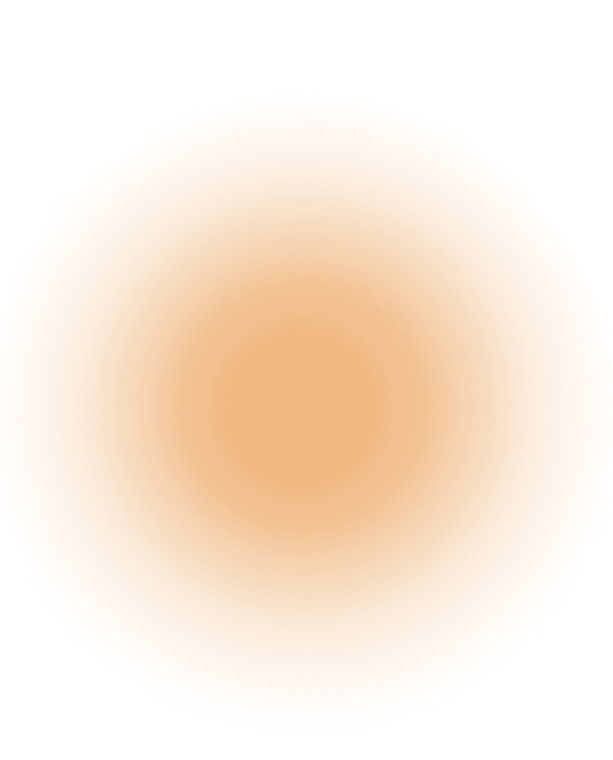
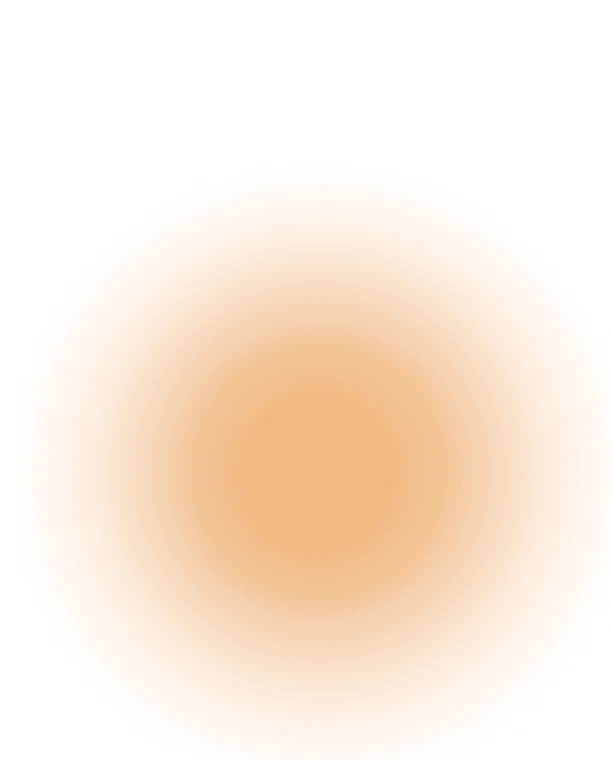
Center lamp glow on the lantern shade
Recenter the glow asset on its bright core and position the halo
from the shared lamp geometry so it aligns with the pendant body.

Changed region(s): [[0.248, 0.575, 0.8989, 0.9684], [0.093, 0.2118, 0.8059, 0.575]]

diff --git a/css/main.css b/css/main.css
@@ -303,6 +303,11 @@ p {
 }
 
 .lamp-hero__stage {
+  /* Shared lamp geometry so the glow can center on the shade. */
+  --lamp-top: clamp(2.75rem, 8vh, 5rem);
+  --lamp-width: clamp(15rem, 30vw, 22rem);
+  --lamp-height: calc(var(--lamp-width) * 432 / 459);
+  --lamp-body-y: calc(var(--lamp-top) + var(--lamp-height) * 0.72);
   position: relative;
   width: min(100%, 56rem);
   min-height: 100vh;
@@ -312,13 +317,12 @@ p {
 
 .lamp-hero__halo {
   position: absolute;
-  top: 0;
+  top: var(--lamp-body-y);
   left: 50%;
   z-index: 0;
   width: clamp(42rem, 92vw, 68rem);
   height: clamp(20rem, 52vh, 36rem);
-  transform: translateX(-50%) scaleX(1.18);
-  transform-origin: center center;
+  transform: translate(-50%, -50%);
   opacity: var(--lamp-power);
   pointer-events: none;
   transition: opacity 0.18s ease;
@@ -337,10 +341,10 @@ p {
 
 .lamp-hero__lamp {
   position: absolute;
-  top: clamp(2.75rem, 8vh, 5rem);
+  top: var(--lamp-top);
   left: 50%;
   z-index: 2;
-  width: clamp(15rem, 30vw, 22rem);
+  width: var(--lamp-width);
   aspect-ratio: 459 / 432;
   transform: translateX(-50%);
   pointer-events: none;
@@ -472,16 +476,14 @@ p {
 }
 
 @media (max-width: 768px) {
-  .lamp-hero__lamp {
-    top: calc(var(--case-topbar-height) + 1.25rem);
-    width: clamp(12.5rem, 68vw, 17.5rem);
+  .lamp-hero__stage {
+    --lamp-top: calc(var(--case-topbar-height) + 1.25rem);
+    --lamp-width: clamp(12.5rem, 68vw, 17.5rem);
   }
 
   .lamp-hero__halo {
-    top: calc(var(--case-topbar-height) + 0.25rem);
     width: min(140vw, 42rem);
     height: clamp(16rem, 44vh, 24rem);
-    transform: translateX(-50%) scaleX(1.12);
   }
 
   .lamp-hero__pull {
